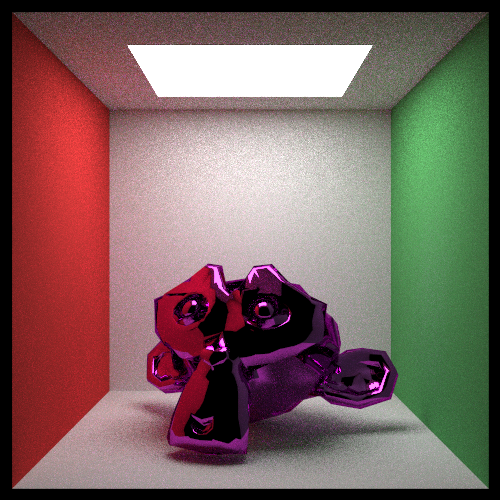
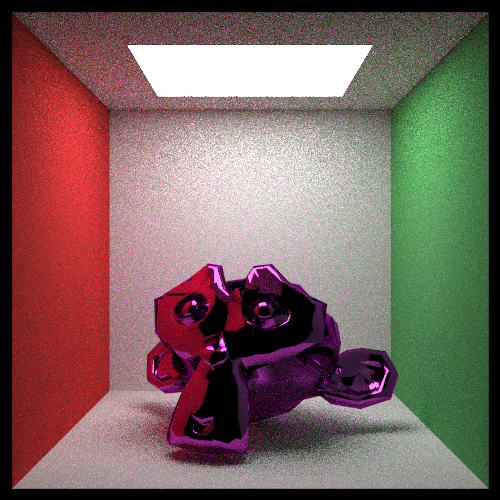
updates

Changed region(s): [[0.03, 0.0, 0.96, 0.99], [0.9, 0.93, 0.93, 0.96]]

diff --git a/README.md b/README.md
@@ -162,11 +162,11 @@ Intel Open Image Denoise (OIDN) is integrated as a post-process step, accepting 
   <tr>
     <td align="center">
     <img src="gallery/noise.png" width="500"/><br/>
-      <sub><b>Suzanne</b> - 50 SPP, 500x500</sub>
+      <sub><b>Suzanne</b> - 20 SPP, 500x500</sub>
   </td>
     <td align="center">
     <img src="gallery/denoise.png" width="500"/><br/>
-      <sub><b>Suzanne Denoised</b> - 50 SPP, 500x500</sub>
+      <sub><b>Suzanne Denoised</b> - 20 SPP, 500x500</sub>
   </td>
   </tr>
 </table>
